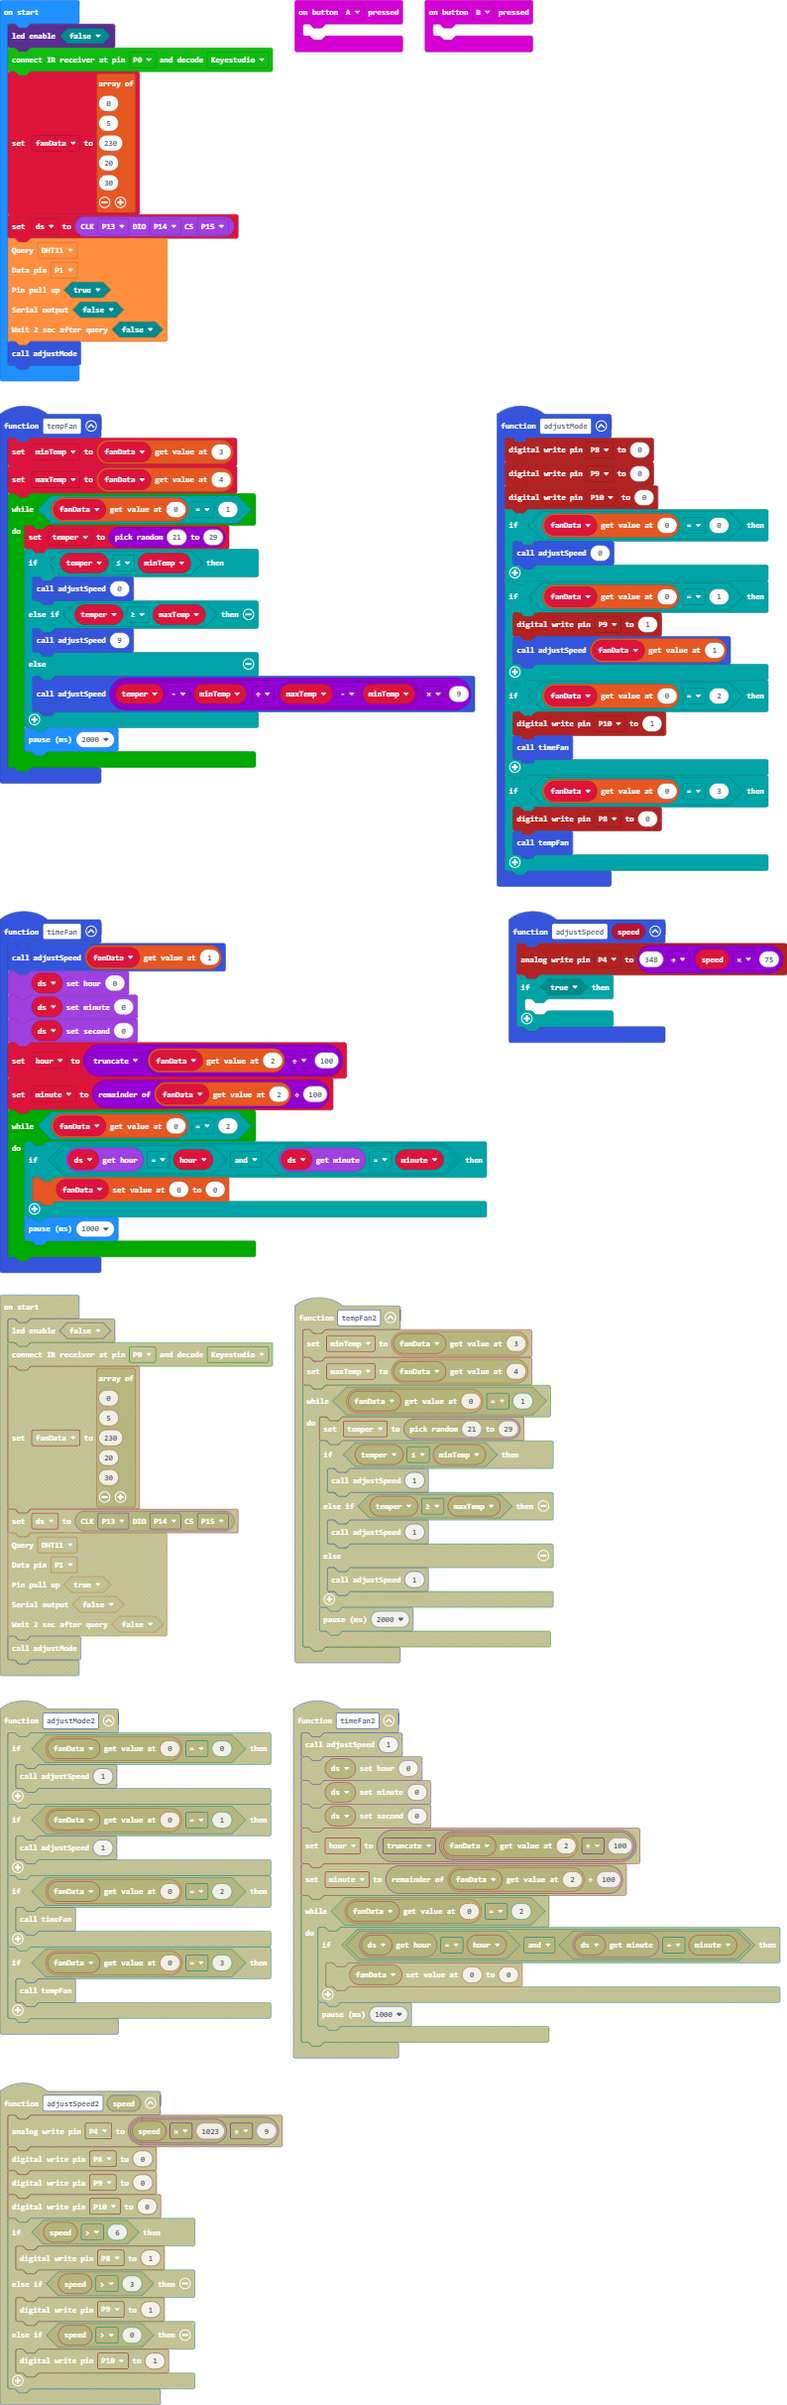
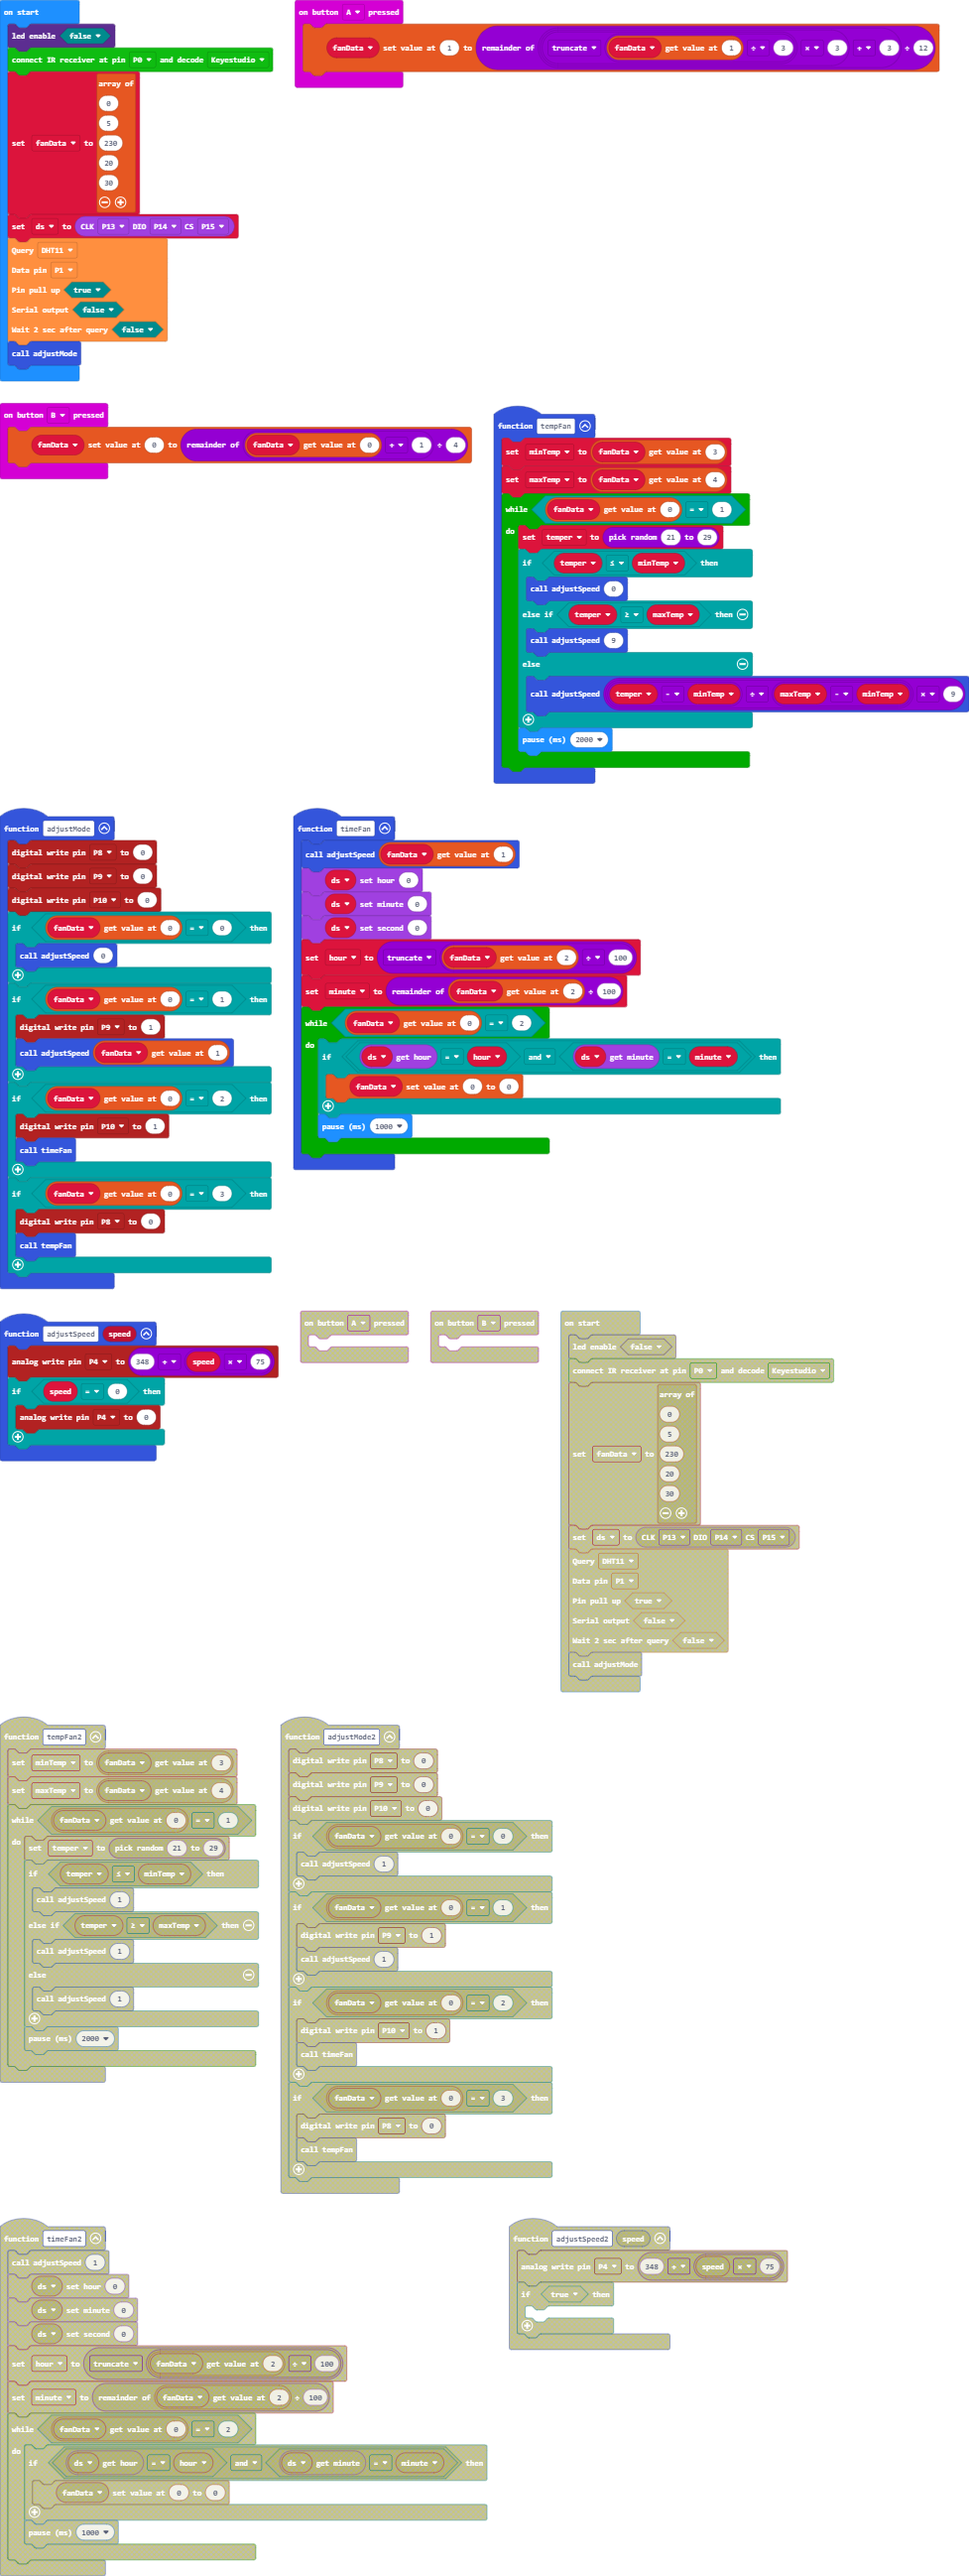
Update pxt.json, main.blocks, main.ts, main.py

diff --git a/main.ts b/main.ts
@@ -1,5 +1,4 @@
-function tempFan() {
-    
+function tempFan () {
     minTemp = fanData[3]
     maxTemp = fanData[4]
     while (fanData[0] == 1) {
@@ -11,44 +10,36 @@ function tempFan() {
         } else {
             adjustSpeed((temper - minTemp) / (maxTemp - minTemp) * 9)
         }
-        
         basic.pause(2000)
     }
 }
-
-input.onButtonPressed(Button.A, function on_button_pressed_a() {
-    
+input.onButtonPressed(Button.A, function () {
+    fanData[1] = (Math.trunc(fanData[1] / 3) * 3 + 3) % 12
 })
-function adjustMode() {
+function adjustMode () {
     pins.digitalWritePin(DigitalPin.P8, 0)
     pins.digitalWritePin(DigitalPin.P9, 0)
     pins.digitalWritePin(DigitalPin.P10, 0)
     if (fanData[0] == 0) {
         adjustSpeed(0)
     }
-    
     if (fanData[0] == 1) {
         pins.digitalWritePin(DigitalPin.P9, 1)
         adjustSpeed(fanData[1])
     }
-    
     if (fanData[0] == 2) {
         pins.digitalWritePin(DigitalPin.P10, 1)
         timeFan()
     }
-    
     if (fanData[0] == 3) {
         pins.digitalWritePin(DigitalPin.P8, 0)
         tempFan()
     }
-    
 }
-
-input.onButtonPressed(Button.B, function on_button_pressed_b() {
-    
+input.onButtonPressed(Button.B, function () {
+    fanData[0] = (fanData[0] + 1) % 4
 })
-function timeFan() {
-    
+function timeFan () {
     adjustSpeed(fanData[1])
     ds.setHour(0)
     ds.setMinute(0)
@@ -59,29 +50,37 @@ function timeFan() {
         if (ds.getHour() == hour && ds.getMinute() == minute) {
             fanData[0] = 0
         }
-        
         basic.pause(1000)
     }
 }
-
-function adjustSpeed(speed: number) {
+function adjustSpeed (speed: number) {
     pins.analogWritePin(AnalogPin.P4, 348 + speed * 75)
     if (speed == 0) {
         pins.analogWritePin(AnalogPin.P4, 0)
     }
-    
 }
-
 let minute = 0
 let hour = 0
 let temper = 0
 let maxTemp = 0
 let minTemp = 0
-let ds : DS1302.DS1302RTC = null
-let fanData : number[] = []
+let ds: DS1302.DS1302RTC = null
+let fanData: number[] = []
 led.enable(false)
 makerbit.connectIrReceiver(DigitalPin.P0, IrProtocol.Keyestudio)
-fanData = [0, 5, 230, 20, 30]
+fanData = [
+0,
+5,
+230,
+20,
+30
+]
 ds = DS1302.create(DigitalPin.P13, DigitalPin.P14, DigitalPin.P15)
-dht11_dht22.queryData(DHTtype.DHT11, DigitalPin.P1, true, false, false)
+dht11_dht22.queryData(
+DHTtype.DHT11,
+DigitalPin.P1,
+true,
+false,
+false
+)
 adjustMode()

diff --git a/main.py b/main.py
@@ -13,7 +13,7 @@ def tempFan():
         basic.pause(2000)
 
 def on_button_pressed_a():
-    pass
+    fanData[1] = (int(fanData[1]/3) * 3 + 3) % 12
 input.on_button_pressed(Button.A, on_button_pressed_a)
 
 def adjustMode():
@@ -33,7 +33,7 @@ def adjustMode():
         tempFan()
 
 def on_button_pressed_b():
-    pass
+    fanData[0] = (fanData[0] + 1) % 4
 input.on_button_pressed(Button.B, on_button_pressed_b)
 
 def timeFan():
@@ -52,6 +52,7 @@ def adjustSpeed(speed: number):
     pins.analog_write_pin(AnalogPin.P4, 348 + speed * 75)
     if speed == 0:
         pins.analog_write_pin(AnalogPin.P4, 0)
+
 minute = 0
 hour = 0
 temper = 0
